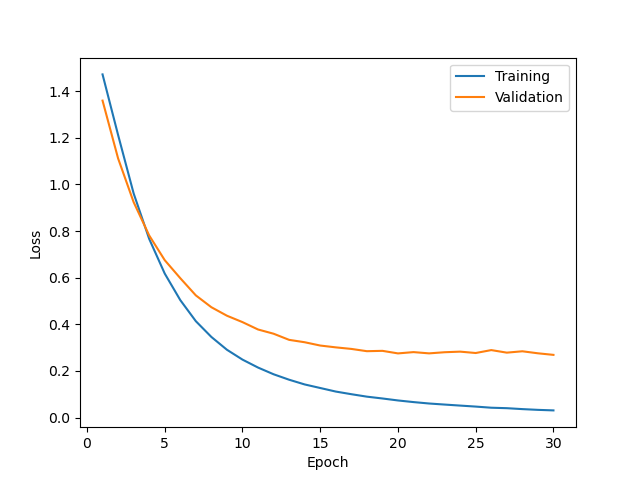
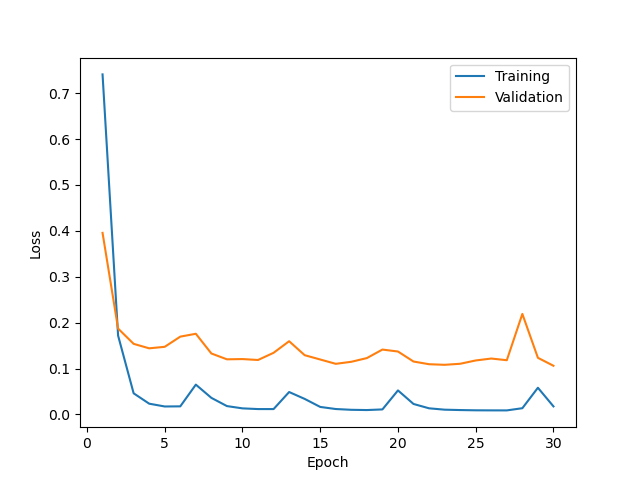
Now larger dataset, changed some config values

diff --git a/config.py b/config.py
@@ -1,7 +1,7 @@
 TRAINING_RATIO = 0.8
 VAL_RATIO = 0.1
 TEST_RATIO = 0.1
-SIZE_OF_DATASET = 100_000
+SIZE_OF_DATASET = 375_000
 
 DATA_DIR = 'data/'
 
@@ -16,20 +16,20 @@ SEMI_SUPERVISED_PHASE_2 = 2
 SUPERVISED_CLASSES = ('religion', 'computers', 'vehicles', 'sports', 'science')
 
 VOCAB_SIZE = 0
-EMBED_DIM = 16
-BATCH_SIZE = 32
+EMBED_DIM = 512
+BATCH_SIZE = 512
 N_FEATURES = 10
-HIDDEN_DIM = 16
+HIDDEN_DIM = 512
 
-NUM_WORKERS = 0
+NUM_WORKERS = 0  # TODO: Fix bug where NUM_WORKERS >= 4 leads to Winerror 1455
 
 # Supervised (input: 10 words, output: category)
 SUPERVISED_NUM_CLASSES = len(SUPERVISED_CLASSES)
-SUPERVISED_N_EPOCHS = 30  # TODO: Change number of epochs?
+SUPERVISED_N_EPOCHS = 30
 
 # Semi-supervised phase 1 (input: 10 words, output: 11th word)
-SEMI_SUPERVISED_PHASE_1_N_EPOCHS = 30  # TODO: Change number of epochs?
+SEMI_SUPERVISED_PHASE_1_N_EPOCHS = 30
 
 # Semi-supervised phase 2 (input: 10 words, output: category)
 SEMI_SUPERVISED_PHASE_2_NUM_CLASSES = SUPERVISED_NUM_CLASSES
-SEMI_SUPERVISED_PHASE_2_N_EPOCHS = 30  # TODO: Change number of epochs?
+SEMI_SUPERVISED_PHASE_2_N_EPOCHS = 30
